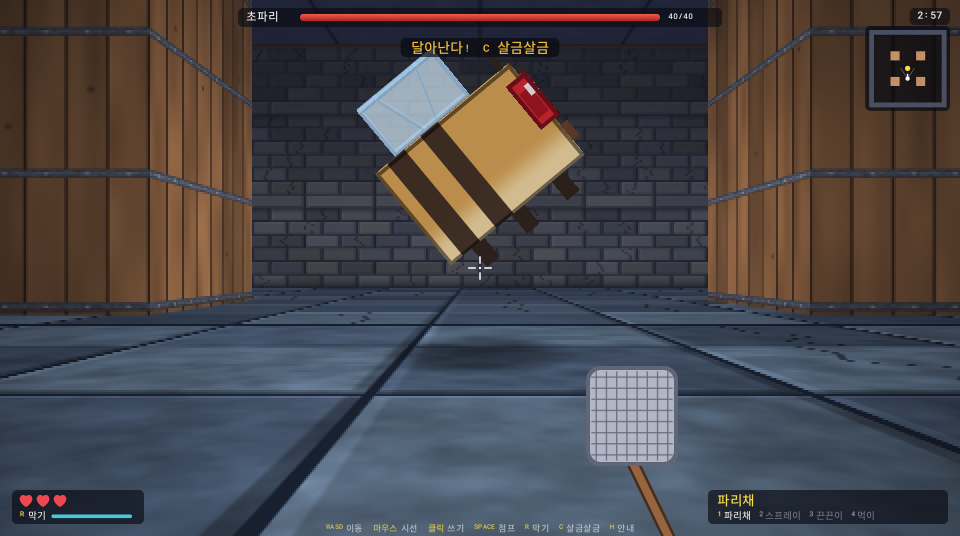
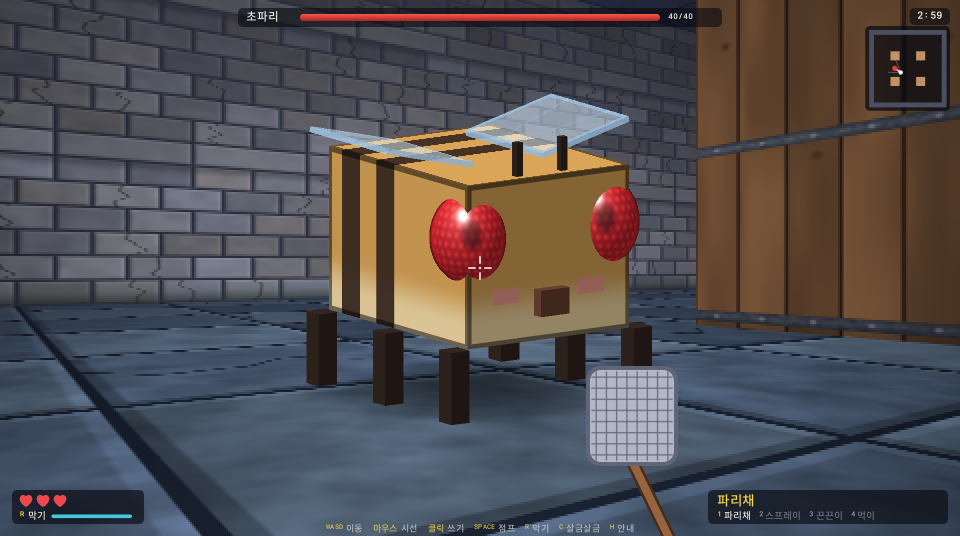
README의 보스전 그림 두 장을 지금 모습(둥근 겹눈)으로 바꿈

diff --git a/README.md b/README.md
@@ -5,9 +5,9 @@
 - 언어는 C(gnu11)이고 외부 라이브러리 없이 리눅스 시스템 호출과 pthread만 쓴다. C 코드는 주석과 빈 줄을 빼고 17,000줄쯤이다(검사 코드 2,000줄쯤 포함).
 - 초파리의 뇌는 공개된 실제 배선 자료(FlyWire v783, 뉴런 138,639개, 연결 약 1,509만 개) 위에서 논문의 식으로 발화를 계산한다. 코드는 전부 직접 썼고, 공개 자료에서는 데이터와 논문의 식만 가져왔다(출처는 아래).
 
-| 보스전: 날아가는 초파리 | 보스전: 벽에 붙은 초파리 |
+| 보스전: 걸어오는 초파리 | 보스전: 벽에 붙은 초파리 |
 |---|---|
-| ![날아가는 초파리](docs/img/boss_fly.png) | ![벽에 붙은 초파리](docs/img/boss_wall.png) |
+| ![걸어오는 초파리](docs/img/boss_fly.png) | ![벽에 붙은 초파리](docs/img/boss_wall.png) |
 
 ## 팀
 
